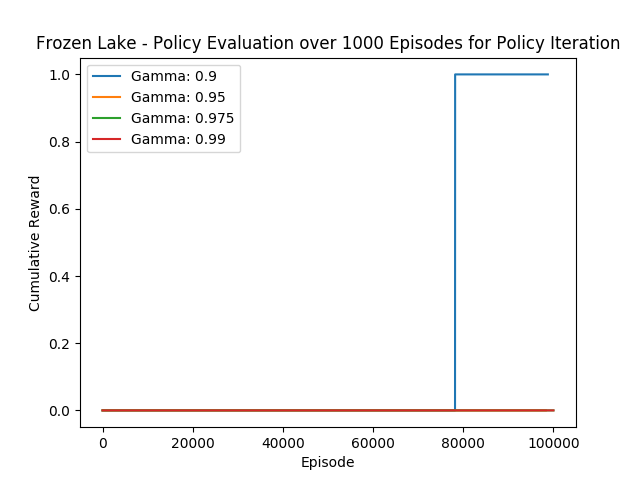
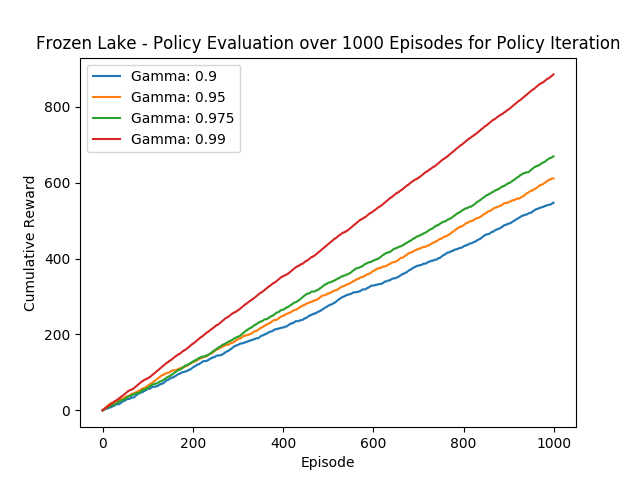
reran q learning

diff --git a/frozen_lake_env.py b/frozen_lake_env.py
@@ -10,7 +10,7 @@ import math
 def frozen_lake():
     np.random.seed(786)
 
-    frozen_lake_map = generate_random_map(32, 0.98)
+    frozen_lake_map = generate_random_map(32, 0.90)
     frozen_lake_env = gym.make("FrozenLake-v0", desc=frozen_lake_map)
     frozen_lake_env._max_episode_steps = 1000000
     NUM_ACTIONS = frozen_lake_env.action_space.n
@@ -52,13 +52,13 @@ def frozen_lake():
         'q_epsilon': [1e-5],
         'q_alphas': [0.1], #[0.01, 0.001],
         'q_radrs': [0.999999], #[0.999, 0.99999],
-        'q_learning_error_plot_title_value': 'Frozen Lake - Episode vs Error in Q Values for Q Learning - No Reward Shaping with R-Max and Dyna',
+        'q_learning_error_plot_title_value': 'Frozen Lake - Episode vs Error in Q Values for Q Learning - Reward Shaping Euclidean Distance',
         'q_path_value': './Q_Learning/',
-        'q_episodes': 500000,
-        'q_policy_eval': 'Frozen Lake - Policy Evaluation over 1000 Episodes for Q Learning - No Reward Shaping with R-Max and Dyna',
+        'q_episodes': 300000,
+        'q_policy_eval': 'Frozen Lake - Policy Evaluation over 1000 Episodes for Q Learning - Reward Shaping Euclidean Distance',
         'reward_shape': shape_reward_pour_la_lac,
-        'q_value_heatmap': 'Q-Values Heatmap - No Reward Shaping with R-Max and Dyna',
-        'use_r_max': True
+        'q_value_heatmap': 'Q-Values Heatmap - Reward Shaping Euclidean Distance',
+        'use_r_max': False
     }
     frozen_lake_env.render()
     # value_iteration.run_value_iteration(params)

diff --git a/q_learning.py b/q_learning.py
@@ -121,8 +121,8 @@ def run_q_learning(params):
             while True:  # loop for each step in the episode
                 # env.render()
                 observation, reward, done, info = env.step(action)
-                # reward_perceived = params['reward_shape'](observation, reward, done, q_learner, info)
-                action = q_learner.determine_action(observation, reward)
+                reward_perceived = params['reward_shape'](observation, reward, done, q_learner, info)
+                action = q_learner.determine_action(observation, reward_perceived)
                 if done:
                     print(str(episode))
                     break

diff --git a/value_iteration.py b/value_iteration.py
@@ -43,6 +43,7 @@ def run_value_iteration(params):
     plt.legend()
     plt.xlim(params['error_plot_x_axes_value'])
     plt.savefig(path + error_plot_title)
+    plt.close()
 
     # plot the value map of environment if possible for all the hyperparameters
     for run in runs:
